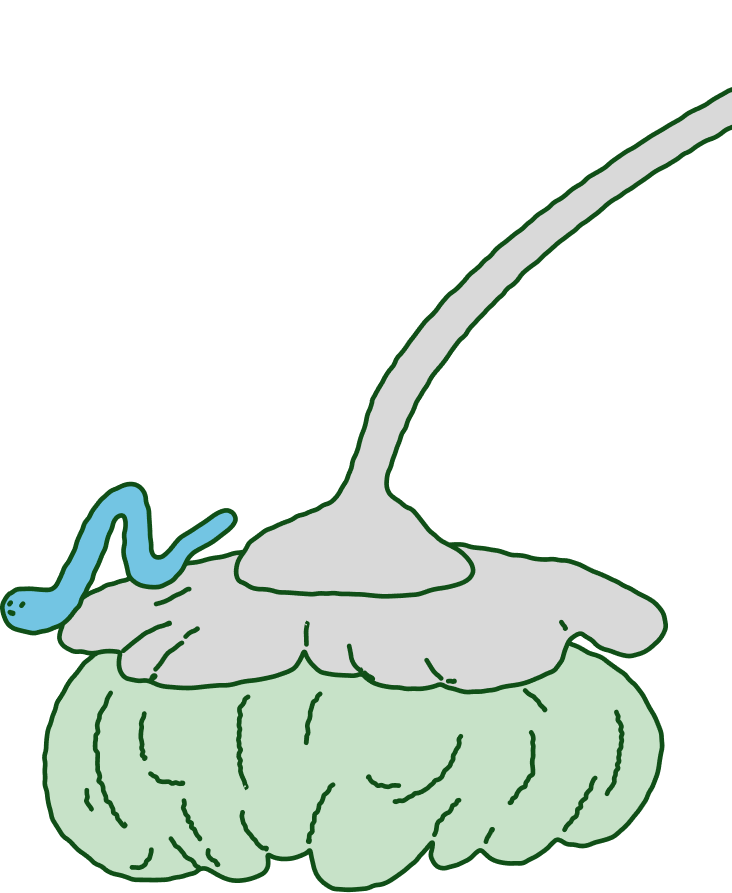
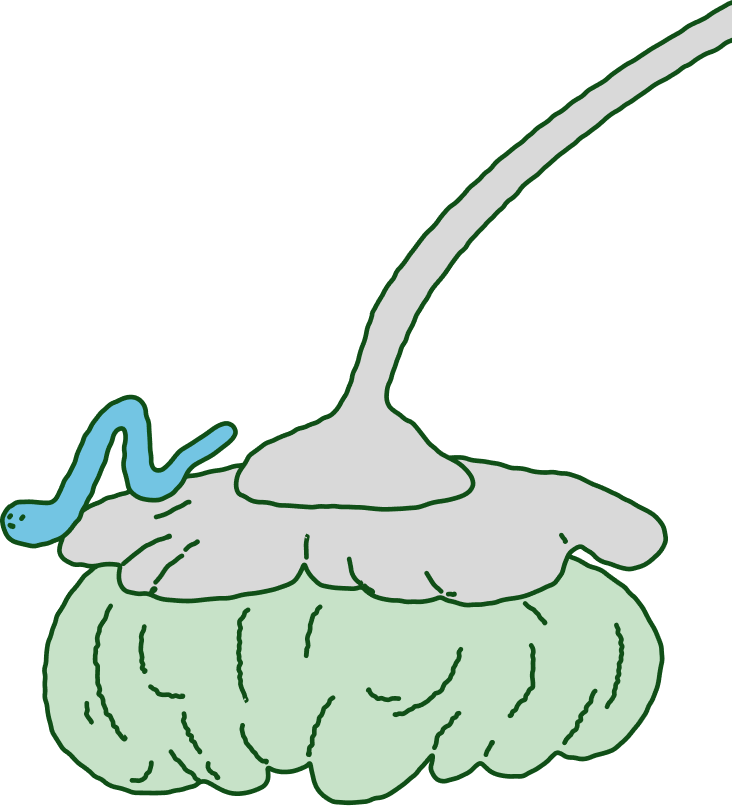
Polish About and Collaboration sections
Center the About photo with the text block, crop the email
illustration's transparent padding and enlarge/center it so day and
night line up consistently, set night-mode placeholder color to
A0F8FF, and simplify the Send button (no border, no all-caps, sized
to match the nav links).

diff --git a/styles.css b/styles.css
@@ -46,25 +46,26 @@ img { display:block; max-width:100%; }
 /* ABOUT */
 .about { padding:100px 120px 120px; }
 .about__title { font-family:'Aguafina Script',cursive; font-style:normal; font-size:42px; font-weight:400; color:#000; margin-bottom:40px; text-align:center; }
-.about__inner { display:flex; flex-direction:row; align-items:flex-start; gap:60px; max-width:1100px; margin:0 auto; }
+.about__inner { display:flex; flex-direction:row; align-items:center; gap:60px; max-width:1100px; margin:0 auto; }
 .about__image-wrap { width:340px; flex-shrink:0; }
 .about__image { width:100%; height:auto; display:block; }
-.about__text { flex:1; padding-top:20px; font-family:'Montserrat',sans-serif; font-size:15px; font-weight:400; line-height:1.75; color:#000; }
+.about__text { flex:1; font-family:'Montserrat',sans-serif; font-size:15px; font-weight:400; line-height:1.75; color:#000; }
 
 /* COLLAB */
 .collab { position:relative; padding:100px 120px 120px; display:flex; flex-direction:column; align-items:center; }
-.collab__img-side { position:absolute; right:-70px; bottom:60px; width:360px; pointer-events:none; }
-.collab__img-side img { width:100%; height:auto; display:block; }
+.collab__img-side { position:absolute; right:-20px; bottom:120px; width:440px; height:420px; pointer-events:none; }
+.collab__img-side img { width:100%; height:100%; object-fit:contain; object-position:center; display:block; }
 .collab__title { font-family:'Aguafina Script',cursive; font-style:normal; font-size:42px; font-weight:400; color:#000; margin-bottom:40px; text-align:center; }
 .collab__inner { max-width:600px; width:100%; }
 .collab__text { font-family:'Montserrat',sans-serif; font-size:14px; line-height:1.7; color:#000; margin-bottom:32px; }
 .collab__form { display:flex; flex-direction:column; gap:20px; }
 .collab__row { display:flex; flex-direction:column; }
-.collab__input { font-family:'Montserrat',sans-serif; font-size:14px; background:transparent; border:none; border-bottom:1.5px solid #000; outline:none; padding:8px 0; color:#000; width:100%; }
+.collab__input { font-family:'Montserrat',sans-serif; font-size:14px; background:transparent; border:none; outline:none; padding:8px 0; color:#000; width:100%; }
 .collab__textarea { resize:none; min-height:100px; }
 .collab__input::placeholder,.collab__textarea::placeholder { color:#aaa; }
-.collab__btn { font-family:'Montserrat',sans-serif; font-size:13px; font-weight:500; letter-spacing:0.12em; text-transform:uppercase; background:transparent; border:1.5px solid #000; padding:12px 40px; cursor:pointer; color:#000; align-self:center; margin-top:10px; }
-.collab__btn:hover { background:#000; color:#fff; }
+body.night-mode .collab__input::placeholder,body.night-mode .collab__textarea::placeholder { color:#A0F8FF; }
+.collab__btn { font-family:'Montserrat',sans-serif; font-size:15px; font-weight:500; letter-spacing:0.08em; background:transparent; border:none; padding:12px 40px; cursor:pointer; color:#000; align-self:center; margin-top:10px; }
+.collab__btn:hover { opacity:0.6; }
 
 
 /* ======= MOBILE ======= */